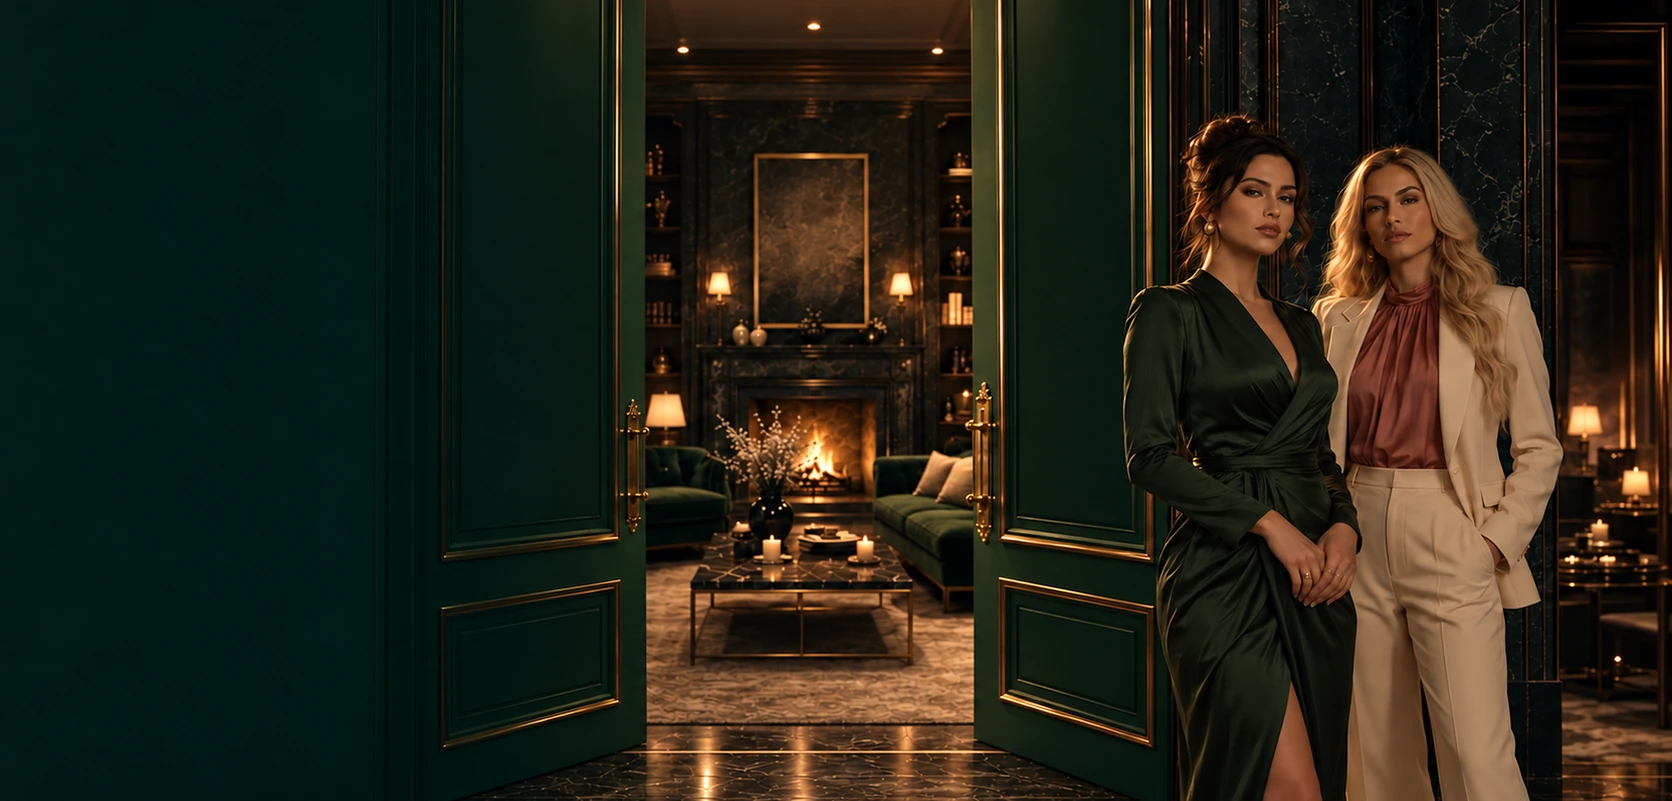
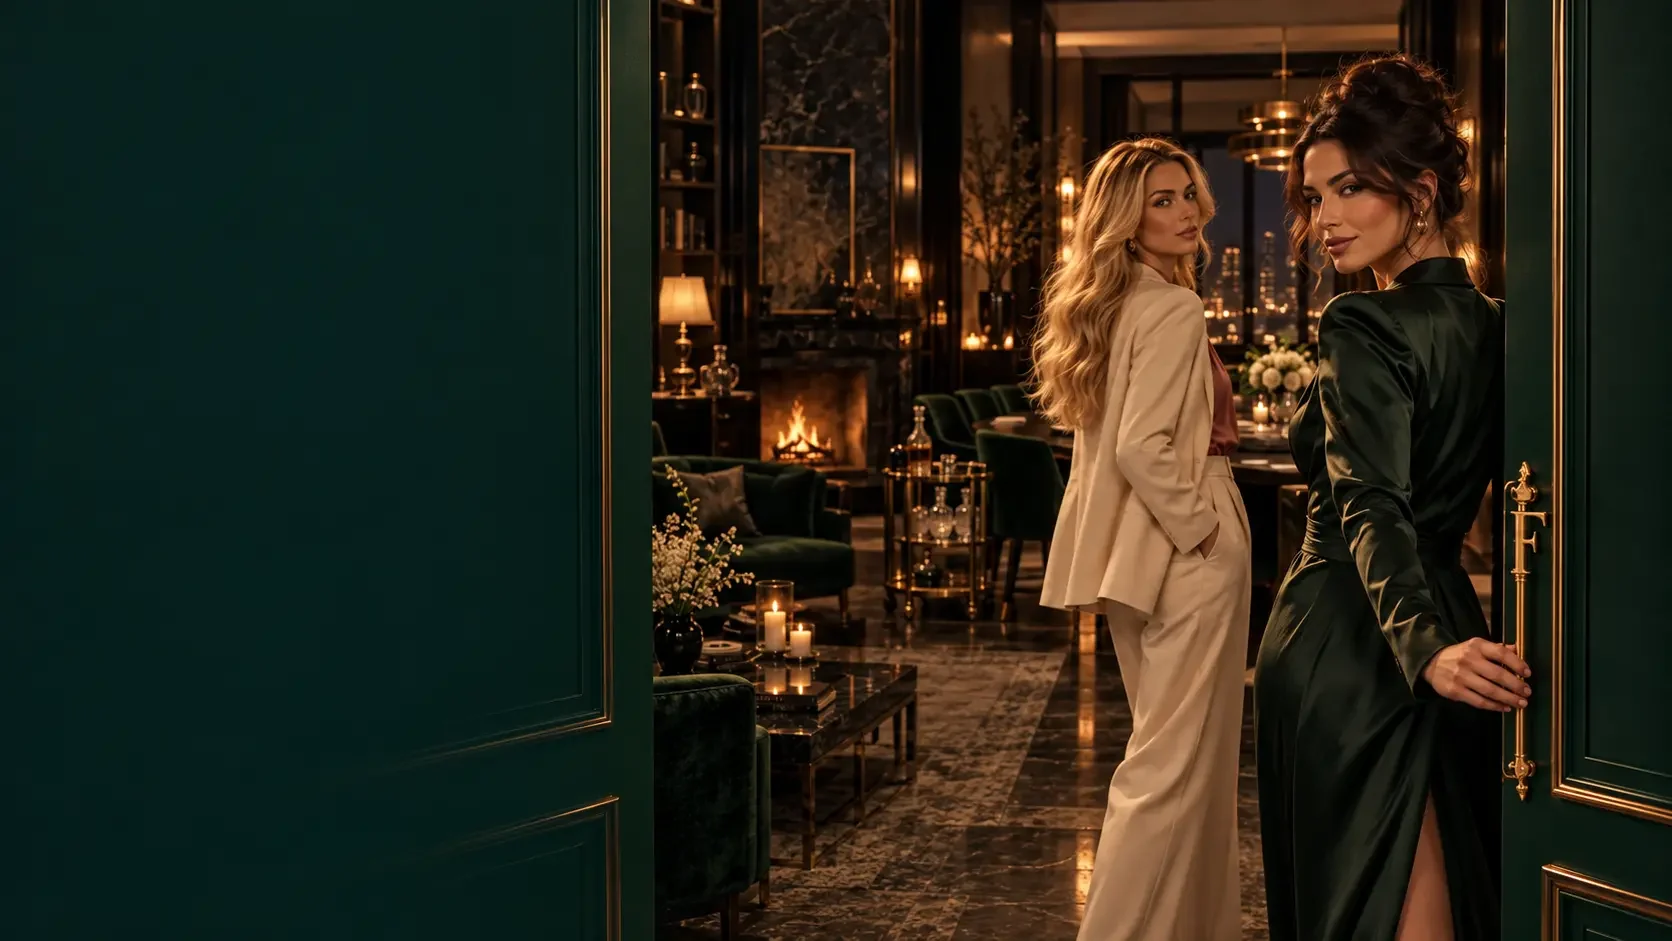
Threshold: the new frame, full width, the door as the ground for the copy
Shelby's photograph — the empty lacquered door on the left, two women at
the open door on the right. Anchored at 85% so the women never leave the
frame; the 94% scrim replaced by a feather; phone crop from the right edge.
Also restores the icon-only key on phones.

Claude-Session: https://claude.ai/code/session_01Ur261Wsau2RympRHJCG9oK

diff --git a/src/app/page.tsx b/src/app/page.tsx
@@ -205,7 +205,16 @@ export default function HomePage() {
 
       {/* ══ 01 · THE THRESHOLD ══════════════════════════════════════════════
           Full bleed, and the copy sits in the photograph's own dark half so
-          it never needs a scrim over her face. */}
+          it never needs a scrim over her face.
+
+          15 Sept 2026, new frame: the left 42% of the photograph IS the
+          door — lacquered Founder Green, deliberately empty — and it is the
+          ground for the headline and the buttons. So: full width, no heavy
+          gradient on top of it (the one that was here went to 94% and hid
+          the door), and the picture anchored at 85% so the two women stay
+          inside the frame as the viewport narrows and the door, not the
+          room, is what gives way. Below md the phone crop takes over with
+          its own bottom fade. */}
       <section id="room-threshold" className="relative isolate min-h-[calc(100svh-4rem)] overflow-hidden">
         <Image
           src={threshold.hero.src}
@@ -213,7 +222,7 @@ export default function HomePage() {
           fill
           priority
           sizes="100vw"
-          className="hidden object-cover object-[58%_center] md:block"
+          className="hidden object-cover object-[85%_center] md:block"
         />
         <Image
           src={threshold.heroMobile.src}
@@ -226,7 +235,7 @@ export default function HomePage() {
         <AmbientLighting />
         <div
           aria-hidden
-          className="absolute inset-0 bg-[linear-gradient(180deg,rgba(10,37,35,0)_38%,rgba(10,37,35,0.9)_82%,#0a2523_100%)] md:bg-[linear-gradient(90deg,#0a2523_0%,rgba(10,37,35,0.94)_26%,rgba(10,37,35,0.55)_44%,rgba(10,37,35,0)_62%)]"
+          className="absolute inset-0 bg-[linear-gradient(180deg,rgba(10,37,35,0)_38%,rgba(10,37,35,0.9)_82%,#0a2523_100%)] md:bg-[linear-gradient(90deg,rgba(10,37,35,0.28)_0%,rgba(10,37,35,0.12)_30%,rgba(10,37,35,0)_44%)]"
         />
         <div className="shell relative flex min-h-[calc(100svh-4rem)] flex-col justify-end pb-16 pt-24 md:justify-center md:py-24">
           <div className="max-w-[44rem]">

diff --git a/src/components/house/founder-key.module.css b/src/components/house/founder-key.module.css
@@ -34,7 +34,12 @@
 .key:hover, .key:focus-visible { border-color: var(--color-champagne); color: var(--color-cream); outline: none; }
 .glyph { width: 1.75rem; height: 0.875rem; color: var(--color-bronze); transition: color var(--motion-micro); }
 .key:hover .glyph, .key:focus-visible .glyph { color: var(--color-champagne); }
-.label { display: flex; flex-direction: column; align-items: flex-start; line-height: 1.15; text-align: left; }
+/* Phones: the key is hardware only — a 44px brass key with no label — so it
+   never sits on a hero's own buttons. The plaque text appears from md.
+   (First written 12 Sept, lost in the hall-of-doors rewrite; back 15 Sept.) */
+.label { display: none; flex-direction: column; align-items: flex-start; line-height: 1.15; text-align: left; }
+@media (min-width: 768px) { .label { display: flex; } }
+@media (max-width: 767px) { .key { padding: 0.5rem 0.7rem; gap: 0; } }
 .labelTop { font-family: var(--font-sans); font-size: 0.625rem; letter-spacing: 0.2em; text-transform: uppercase; }
 .labelSub { font-family: var(--font-serif); font-size: 0.8125rem; color: color-mix(in srgb, var(--color-cream) 60%, transparent); }
 .note {

diff --git a/src/lib/rooms.ts b/src/lib/rooms.ts
@@ -48,8 +48,8 @@ export const ROOMS: Room[] = [
     pathname: "/",
     hero: {
       src: "/editorial/rooms/threshold-doors.webp",
-      alt: "Two women standing at the threshold of the FOUNDER house — one in a deep green silk wrap dress, one in a cream suit and rose silk blouse — beside tall emerald and gilt doors standing open on a firelit sitting room, candles on the table and the fire burning behind them.",
-      position: "58% center",
+      alt: "Two women at the threshold of the FOUNDER house: one in a deep green silk gown, her hand on the brass F handle of the open Founder Green door, and one in a cream suit and rose silk blouse, the firelit sitting room, candles and the city at night behind them.",
+      position: "85% center",
     },
     heroMobile: { src: "/editorial/rooms/threshold-doors-m.webp" },
     through: "The fire’s lit and someone kept your seat. Come in.",

diff --git a/WORKLOG.md b/WORKLOG.md
@@ -1269,3 +1269,21 @@ and fit it into the atmosphere."
   grid stuff, I'm not going to say it again." Nothing is drawn on the wall
   now except light. Standing rule for this room, third time stated in this
   log: NO GRIDS, NO GRAPHS, NO LINES that read as a diagram.
+
+## 2026-09-15 · Claude (Cowork) — the threshold frame
+- Shelby supplied a new threshold photograph (1672×941): the left 42% is
+  the lacquered Founder Green door, deliberately empty, for the headline and
+  buttons; two women at the open door on the right. public/editorial/rooms/
+  threshold-doors.webp replaced at FULL width (no crop, q86); threshold-
+  doors-m.webp is a 3:4 crop from the right edge (705×941) so both women are
+  in the phone frame. page.tsx hero: object-position 58% → 85% (the women
+  stay in frame as the viewport narrows; the door gives way, not the room);
+  the desktop scrim that ran to 94% is gone — replaced by a feather that
+  peaks at 28% and is clear by 44%, per her note "avoid adding another heavy
+  gradient". Phone bottom fade unchanged. rooms.ts alt + position updated.
+- founder-key.module.css: the phone rule (icon-only key below md) had been
+  lost when the hall-of-doors CSS was written from an older copy; restored.
+  On phones the key no longer sits over the hero's ENTER THE HOUSE button.
+- Verified: real build in the cloud copy synced from HEAD b5f24a0, then
+  doors opened and the hero shot at 1920/1440/1024/390.
+- Committed, unpushed.
